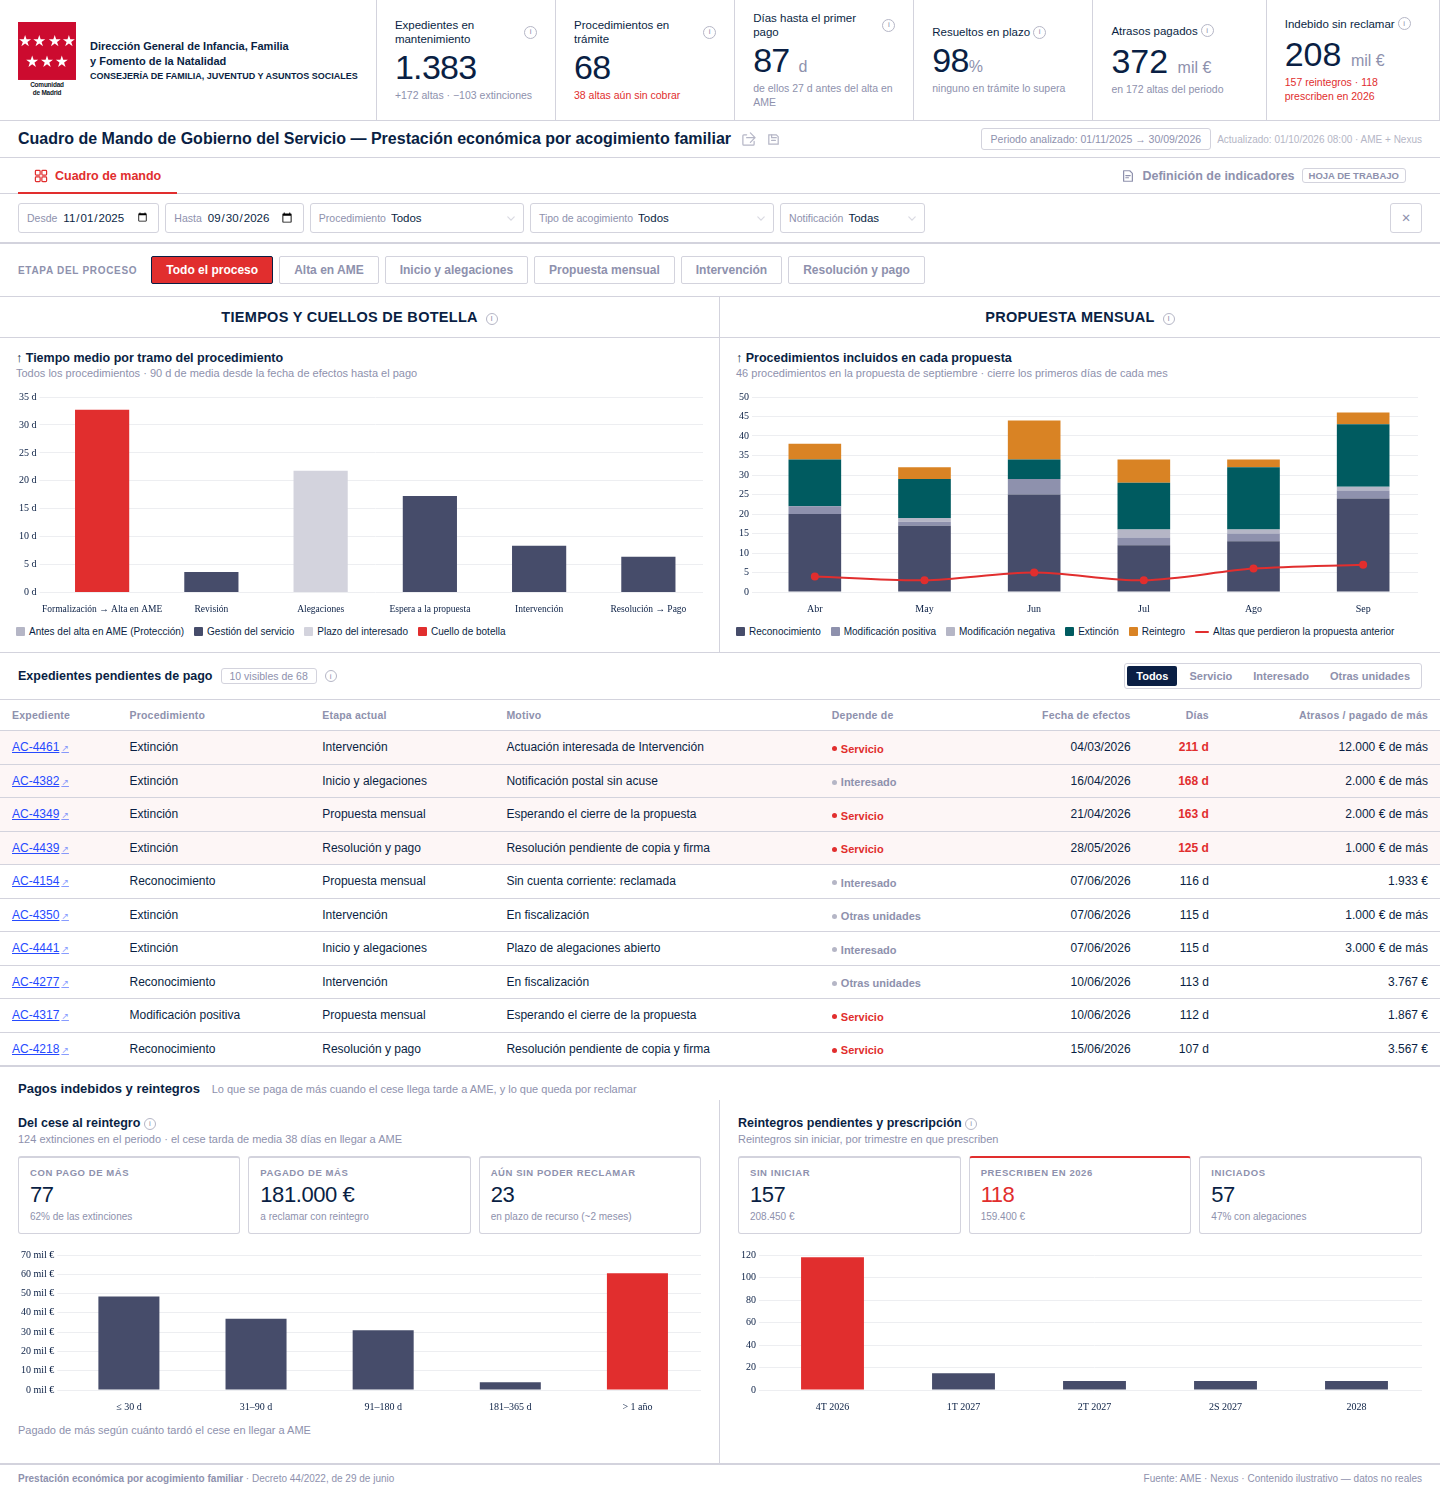
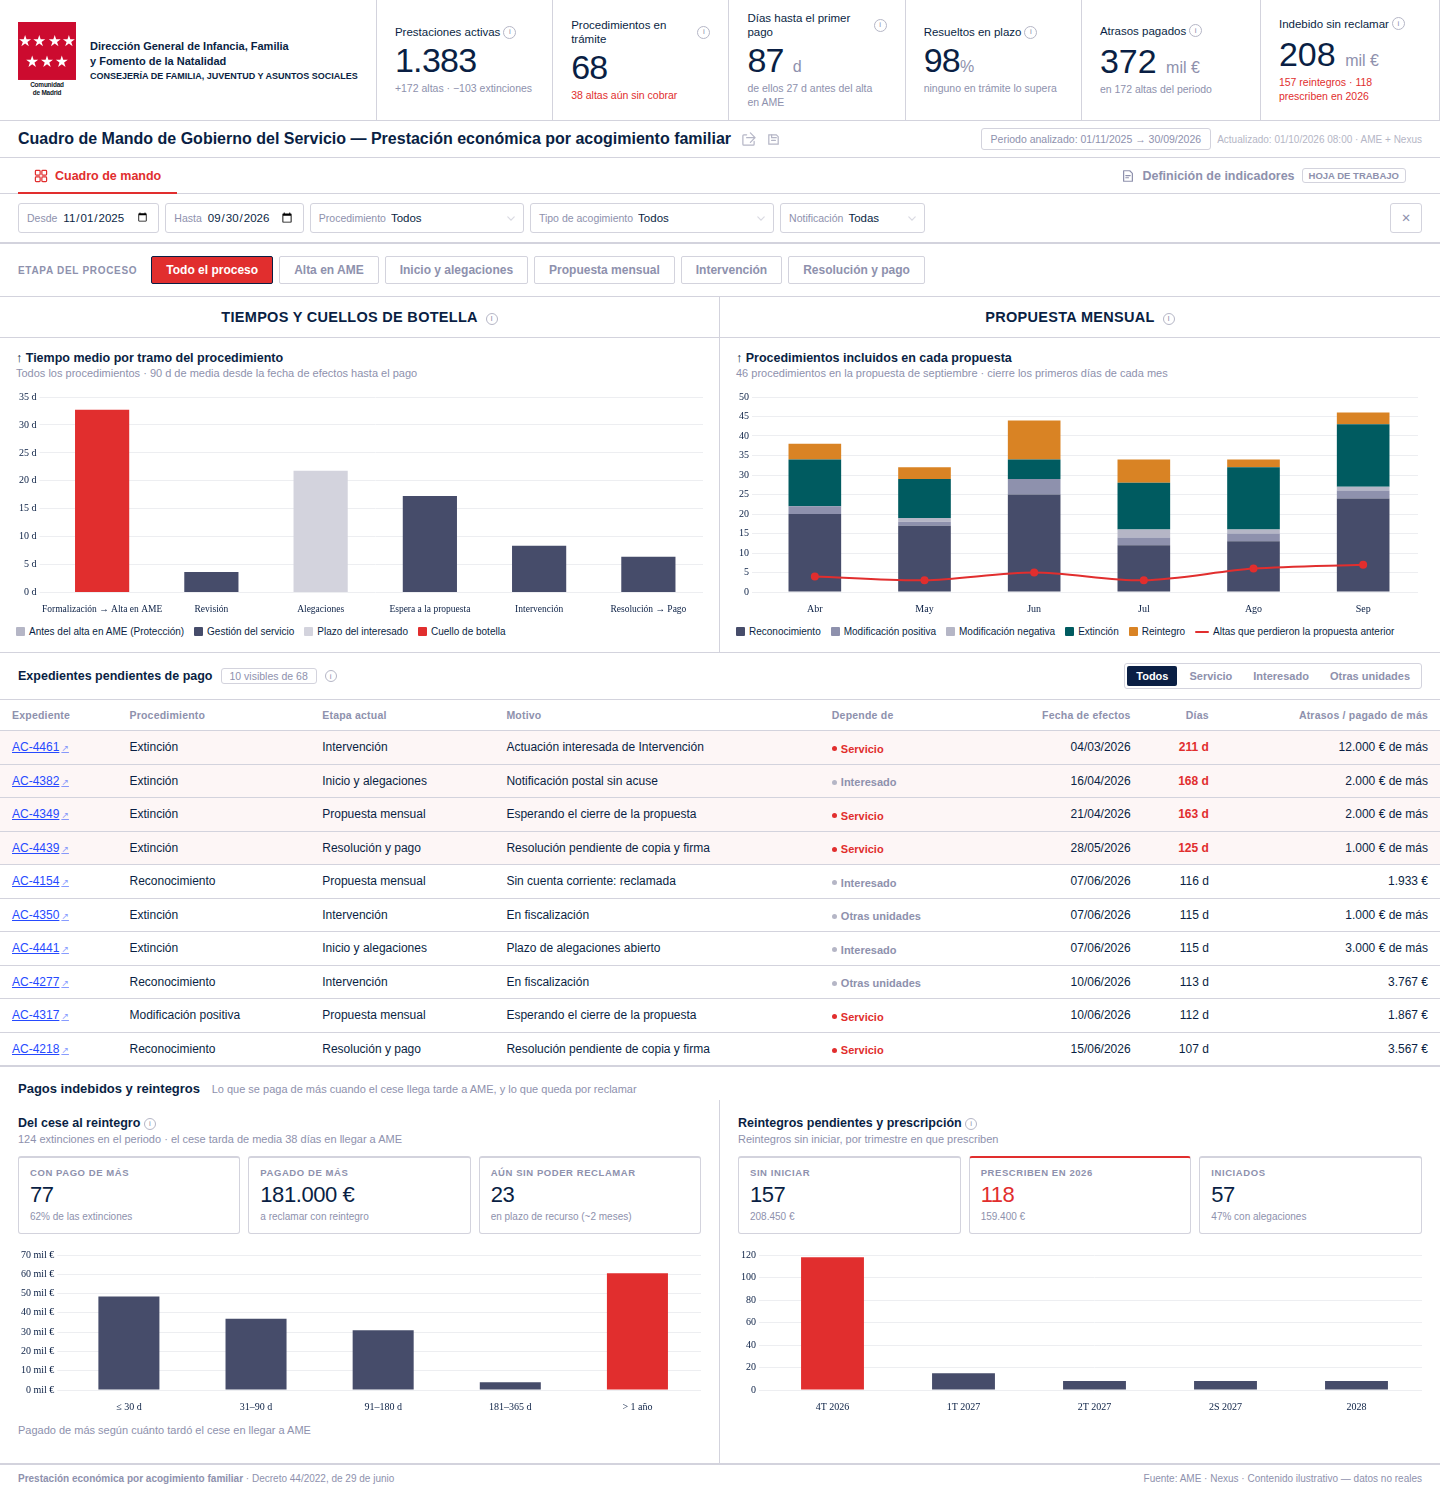
Acogimiento v2: «Prestaciones activas» en lugar de «Expedientes en mantenimiento»
Claude-Session: https://claude.ai/code/session_012PCcGQXYr4PR8xb2pBrhox

diff --git a/mockups/MockupAcogimiento_v2.html b/mockups/MockupAcogimiento_v2.html
@@ -1115,7 +1115,7 @@ function limpiar(){ ['fProc','fTipo','fNot'].forEach(i=>$(i).value=''); $('fIni'
 
 /* ── cabecera ── */
 const TIP={
- 'Expedientes en mantenimiento':'Expedientes que cobran la prestación cada mes sin ningún procedimiento abierto: el tamaño del servicio. Debajo, las altas y extinciones resueltas en el periodo.',
+ 'Prestaciones activas':'Expedientes que cobran la prestación en la nómina del mes (en AME, «listado de mantenimiento»): el tamaño del servicio. Se cuenta por expediente: uno puede cubrir a varios menores. Debajo, las altas y extinciones del periodo.',
  'Procedimientos en trámite':'Reconocimientos, modificaciones y extinciones abiertos en AME a la fecha de corte. Debajo, las altas que todavía no han cobrado ninguna mensualidad: la falta de pago a las familias.',
  'Días hasta el primer pago':'Días desde la fecha de efectos del acogimiento hasta el primer pago, en las altas ya pagadas. Debajo, cuántos de esos días pasan antes de que Protección grabe el alta en AME: la parte que el servicio no controla.',
  'Resueltos en plazo':'Procedimientos resueltos dentro del plazo legal: 3 meses desde el acuerdo de inicio (Decreto 44/2022, por confirmar). No descuenta las interrupciones imputables al interesado. Debajo, los que siguen en trámite y ya lo han superado.',
@@ -1140,7 +1140,7 @@ function renderHdr(P){
   const res=P.filter(e=>e.etapa>4), enPl=res.filter(e=>diasPlazo(e)<=PLAZO).length;
   const fuera=cur.filter(e=>e.etapa>=2 && (CORTE-(e.alta+e.t[1]*DIA))/DIA>PLAZO).length;
   $('kpiGlobal').innerHTML=
-    ks('Expedientes en mantenimiento',nfmt(mant),'na',`+${nfmt(altas)} altas · −${nfmt(bajas)} extinciones`)+
+    ks('Prestaciones activas',nfmt(mant),'na',`+${nfmt(altas)} altas · −${nfmt(bajas)} extinciones`)+
     ks('Procedimientos en trámite',nfmt(cur.length),sinCobrar?'bad':'na',sinCobrar?`${nfmt(sinCobrar)} altas aún sin cobrar`:'ninguna alta sin cobrar')+
     ks('Días hasta el primer pago',dias?Math.round(dias)+' <span class="u">d</span>':'—','na',dias?`de ellos ${Math.round(antes)} d antes del alta en AME`:'')+
     ks('Resueltos en plazo',res.length?Math.round(enPl/res.length*100)+'<span class="u">%</span>':'—',fuera?'bad':'na',fuera?`${nfmt(fuera)} en trámite ya lo superan`:'ninguno en trámite lo supera');
@@ -1334,7 +1334,7 @@ document.querySelectorAll('.tabb').forEach(b=>b.onclick=()=>{
 
 /* ── hoja de definición de indicadores ── */
 const DFILAS=[
- ['Expedientes en mantenimiento','Expedientes que cobran cada mes sin procedimiento abierto','Resolución de reconocimiento','Extinción','Listado de mantenimiento de AME',1],
+ ['Prestaciones activas','Expedientes que cobran en la nómina del mes (uno puede cubrir a varios menores)','Resolución de reconocimiento','Extinción','Listado de mantenimiento de AME',1],
  ['Procedimientos en trámite','Procedimientos abiertos en AME, y altas que aún no han cobrado','Acuerdo de inicio','Resolución','—',1],
  ['Resueltos en plazo','Resueltos en 3 meses desde el acuerdo de inicio, y en trámite que ya lo superan','Acuerdo de inicio','Resolución notificada','Decreto 44/2022 · plazo máximo',1],
  ['Atrasos pagados','Importe de atrasos pagado en la primera nómina de cada alta','Fecha de efectos','Primer pago','Anexo I · importe de atrasos',1],
